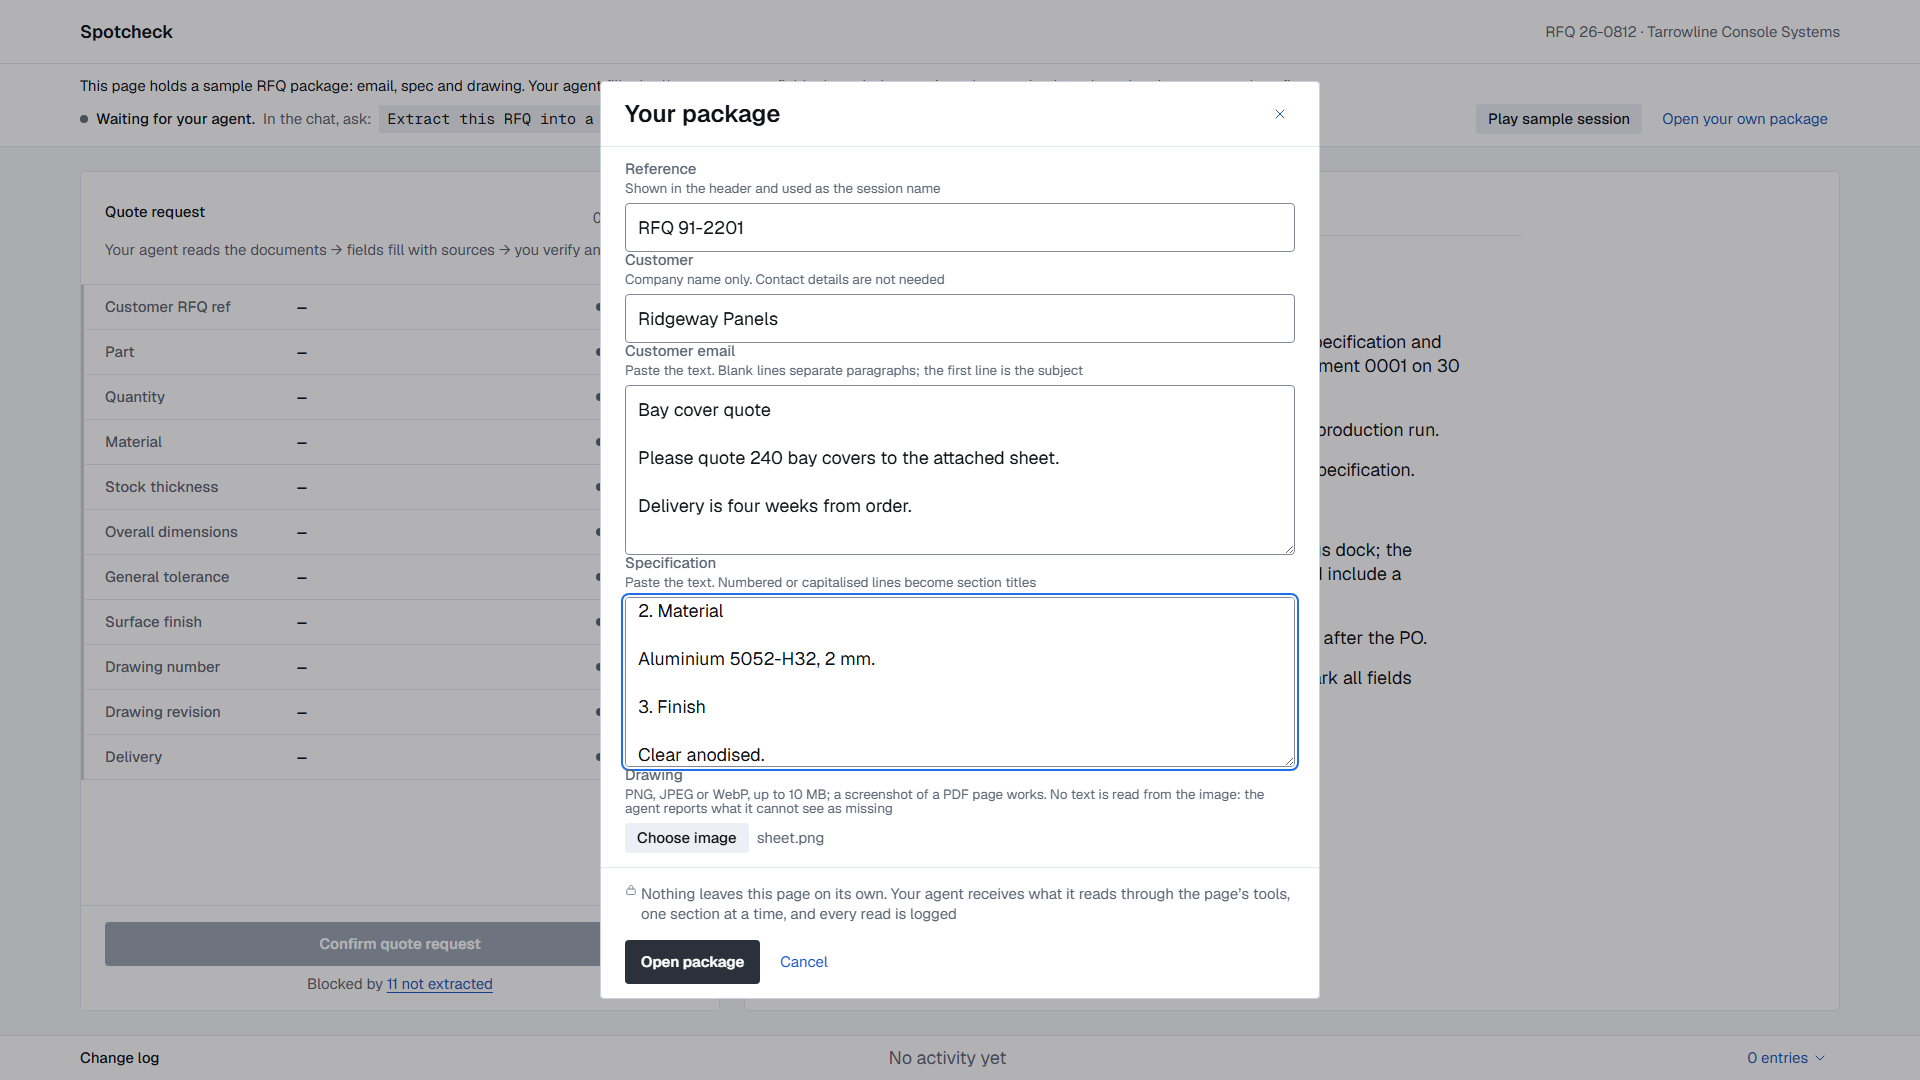
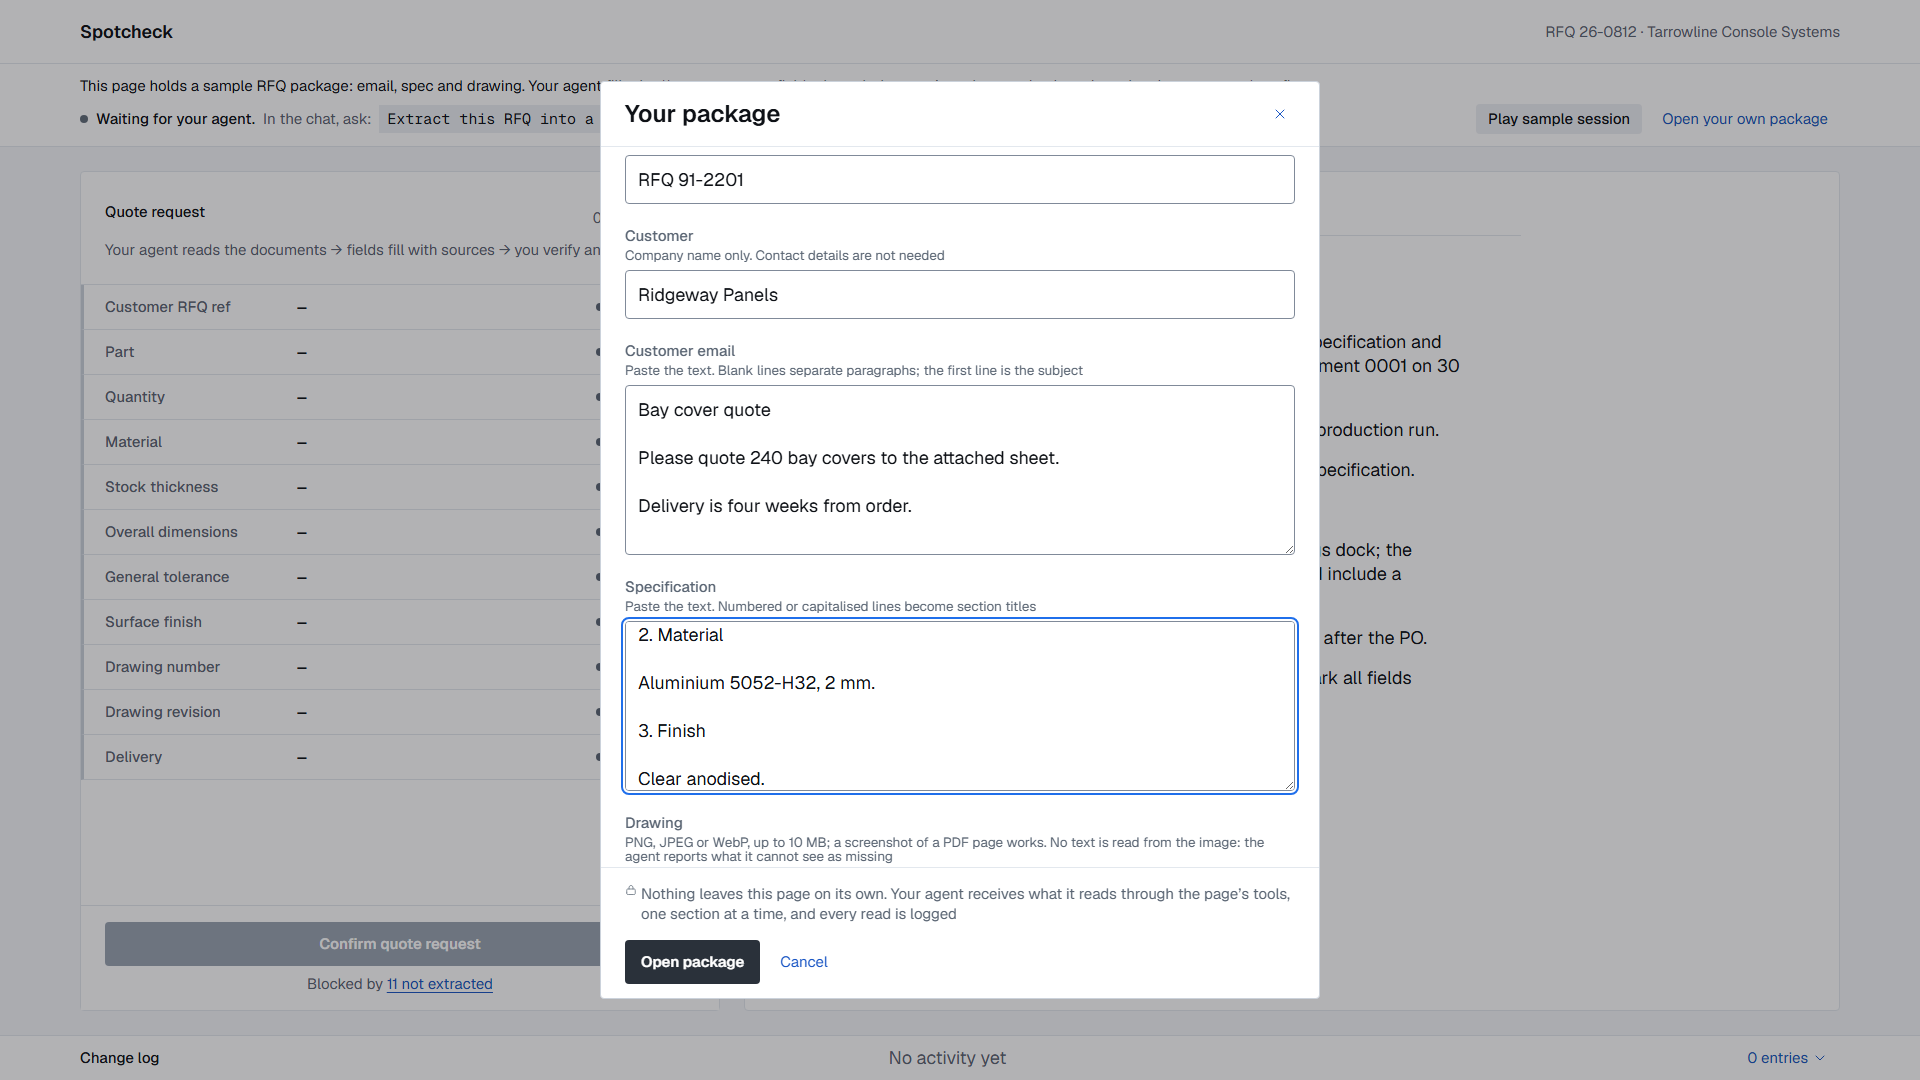
P5 fix: the dialog's field spacing carries the hierarchy
Every gap in the form was within one step of every other, so a label, its hint,
its control and the next field all read as one list. Spacing is now assigned by
role: the smallest step from a label to its hint, one above it from the hint to
the control, and a whole step further from one field to the next. DESIGN.md
carries that as a row in the spacing-role table, the dialog entry names the
padding roles the three parts take, and the task file cites both rather than
setting a pixel of its own. A stylesheet test holds the three values.

Changed region(s): [[0.3125, 0.5194, 0.6875, 0.7944], [0.3125, 0.1528, 0.5, 0.3056]]

diff --git a/src/components/OpenPackageDialog.test.tsx b/src/components/OpenPackageDialog.test.tsx
@@ -184,6 +184,20 @@ describe('P5: the dialog is a header, a scrolling body and a footer', () => {
     expect(rule('.dialog')).toMatch(/overflow:\s*hidden/);
     expect(rule('.dialog__form')).not.toMatch(/overflow-y:\s*auto/);
   });
+
+  test('one field stands a step further from the next than its own parts do', () => {
+    const componentsCss = readFileSync('src/styles/components.css', 'utf8').replace(/\/\*[\s\S]*?\*\//g, '');
+    const rule = (selector: string): string => {
+      const head = componentsCss.indexOf(selector + ' {');
+      return head < 0 ? '' : componentsCss.slice(head, componentsCss.indexOf('}', head));
+    };
+
+    // Label to hint the smallest step, hint to control one above it, and one
+    // field to the next the between-blocks step (DESIGN.md spacing roles).
+    expect(rule('.dialog__hint')).toMatch(/margin-block-start:\s*var\(--space-1\)/);
+    expect(rule('.dialog__field .dialog__error')).toMatch(/margin-block-start:\s*var\(--space-2\)/);
+    expect(rule('.dialog__field + .dialog__field')).toMatch(/margin-block-start:\s*var\(--space-6\)/);
+  });
 });
 
 describe('the image a person attaches', () => {

diff --git a/src/styles/components.css b/src/styles/components.css
@@ -1763,9 +1763,16 @@
   font-weight: 600;
 }
 
+/* Hierarchy by distance: a label and its hint sit at the smallest step, the
+   control a step above that, and one field stands a whole step further from
+   the next than any of its own parts do (DESIGN.md § Spacing, layout, the
+   dialog field role). */
 .dialog__field {
   display: grid;
-  gap: var(--space-2);
+}
+
+.dialog__field + .dialog__field {
+  margin-block-start: var(--space-6);
 }
 
 .dialog__textarea {
@@ -1809,21 +1816,17 @@
   color: var(--state-conflict);
 }
 
-/* A hint and its field sit closer than two fields do. */
-.dialog__field {
-  gap: var(--space-1);
-}
-
 .dialog__field .dialog__input,
 .dialog__field .dialog__textarea,
 .dialog__field .dialog__file,
 .dialog__field .dialog__error {
-  margin-block-start: var(--space-1);
+  margin-block-start: var(--space-2);
 }
 
 /* A hint is a line of its own, never text inside the field (§ Interaction states). */
 .dialog__hint {
   margin: 0;
+  margin-block-start: var(--space-1);
   color: var(--ink-secondary);
   font-size: var(--text-sm);
   line-height: var(--leading-sm);

diff --git a/DESIGN.md b/DESIGN.md
@@ -144,7 +144,7 @@ The shared primitives, one row each. A task adds a modifier to a row that is her
 | Sheet | rendered by `SourcePane` (the narrow source) and `ChangeLogDrawer` (the narrow log) | `.source-pane--sheet`, `.change-log__sheet` | closed, open (modal, body scroll locked, focus returned on close) | full height below 1024px; the log sheet 40vh above it |
 | Dialog | `OpenPackageDialog` and `ConfirmDialog` | `.dialog`, `.dialog--confirm`, with `__form`, `__header`, `__title`, `__close`, `__body`, `__footer`, `__field`, `__label`, `__hint`, `__input`, `__textarea`, `__file`, `__file-name`, `__privacy`, `__message`, `__error`, `__actions` | closed, open, per-field validation | `min(720px, 100% - 2 * --page-margin)` wide and at most 85vh, `--confirm` `min(480px, …)`; a full-height sheet below 1024px; its one primary `--control-large` |
 
-**Dialog anatomy.** Every dialog is three parts, and both of the components above build them: a **header** carrying the title and a close icon button at the right end (the cross glyph, accessible name "Close", doing what `Cancel` does; compact height at the two-column widths and `--control-large` below the breakpoint); a **body** holding the content, which is the only part that scrolls (`overflow-y: auto` on the body — never on the dialog, the form or the page); and a **footer** carrying the actions, with the privacy line above them in the package dialog, in view at every scroll position. A hairline separates each end from the body. On the full-height sheet below 1024px the three parts are the same and the footer sits at the bottom of the viewport, its block-end padding clearing the device's safe area.
+**Dialog anatomy.** Every dialog is three parts, and both of the components above build them: a **header** carrying the title and a close icon button at the right end (the cross glyph, accessible name "Close", doing what `Cancel` does; compact height at the two-column widths and `--control-large` below the breakpoint); a **body** holding the content, which is the only part that scrolls (`overflow-y: auto` on the body — never on the dialog, the form or the page); and a **footer** carrying the actions, with the privacy line above them in the package dialog, in view at every scroll position. A hairline separates each end from the body. On the full-height sheet below 1024px the three parts are the same and the footer sits at the bottom of the viewport, its block-end padding clearing the device's safe area. Padding: the body takes the pane-gutter step on every side, the header and the footer the paragraph step in block and the pane-gutter step inline; below the breakpoint all three take the paragraph step. Field spacing is the dialog-field role in § Spacing, layout, hit targets.
 
 **Change-log header by state.** The expanded log carries the actions of the state it is in and no others. `Play sample session` and the way into a package of your own are the status strip's before a session starts, and the confirm summary's after one is over; the log offers neither at any width.
 
@@ -195,6 +195,7 @@ Rules the builder must not trade away:
   | row padding | 12 block × 24 inline |
   | group heading | 16 above / 8 below |
   | card internal (candidate, suggestion) | 12×16; between cards 8 |
+  | dialog field (label↔hint · hint↔control · one field to the next) | 4 · 8 · 24 — a field stands a whole step further from the next than any of its own parts do, which is what makes the hierarchy readable without a rule between fields |
   | field-pane gutter | 24 |
   | document gutter — tabs and text share it | 48; paragraph gap 16; section gap 24 |
   | pane gap | 24 |

diff --git a/tasks/P5-own-package.md b/tasks/P5-own-package.md
@@ -54,7 +54,7 @@ No new dependency. `reducer.ts`, the action unions, the tool descriptions and sc
 
 ### Dialog
 
-A native `<dialog>` (modal; `Esc` closes; focus trapped by the element; focus returns to the button that opened it), width `min(720px, 100% - 2 * --page-margin)`, on narrow a full-height sheet with the same content. **Amended 2026-09-02 after the owner's look at the preview:** the dialog is a header, a scrolling body and a footer, per `DESIGN.md` § Components, **Dialog anatomy** — the title and a close icon button in the header, the fields in the body, the privacy line and the actions in the footer, and only the body scrolls. `ConfirmDialog` takes the same three parts. Title "Your package" (`--text-xl`). Fields, in order, each with a visible label above (md, `--ink-secondary`) and a hint line under it in sm:
+A native `<dialog>` (modal; `Esc` closes; focus trapped by the element; focus returns to the button that opened it), width `min(720px, 100% - 2 * --page-margin)`, on narrow a full-height sheet with the same content. **Amended 2026-09-02 after the owner's look at the preview:** the dialog is a header, a scrolling body and a footer, per `DESIGN.md` § Components, **Dialog anatomy** — the title and a close icon button in the header, the fields in the body, the privacy line and the actions in the footer, and only the body scrolls. `ConfirmDialog` takes the same three parts. Spacing inside and between the fields is the dialog-field role in `DESIGN.md` § Spacing, layout, hit targets, and the dialog's padding the roles named in § Components, **Dialog anatomy**; no pixel value is set here. Title "Your package" (`--text-xl`). Fields, in order, each with a visible label above (md, `--ink-secondary`) and a hint line under it in sm:
 
 1. `Reference` — single-line input, required, placeholder `e.g. {reference}` where `{reference}` is the sample's `reference` from `data/package.json` (a placeholder attribute, never a prefilled value); hint "Shown in the header and used as the session name".
 2. `Customer` — single-line input, optional; hint "Company name only. Contact details are not needed".
